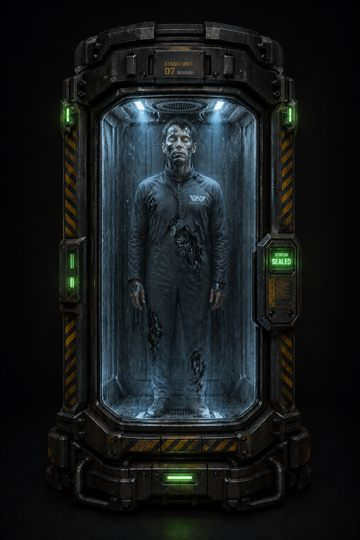
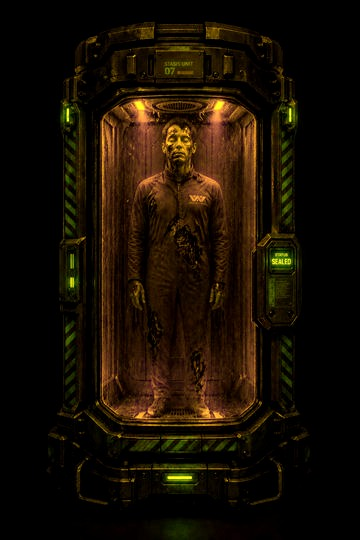
Perf: Android Bay — pre-bake CSS filters into JPEGs, zero runtime filter layers
- Generate pod-empty/occupied/sealing/damaged.jpg with CSS filters
  (saturate/brightness/hue-rotate/contrast) baked in via ColorMatrix
- Remove all CSS filter: properties from .ab-photo rules
  (eliminates 10 GPU filter texture layers at runtime)
- New pod-sealing.jpg variant (sealing state had different filter than occupied)
- Empty pod hover: filter → opacity:.75 (GPU-safe, no compositor layer)
- Add pod-sealing.jpg to preload list
- Ignore *.orig.jpg backup files in .gitignore

diff --git a/assets/css/android-bay.css b/assets/css/android-bay.css
@@ -183,10 +183,10 @@
   position: absolute; inset: 0;
   background-size: cover; background-position: center; background-repeat: no-repeat;
 }
-#androidBayOverlay .ab-pod[data-state="empty"]    .ab-photo { background-image: url("../images/pod-empty.jpg");    filter: saturate(.45) brightness(.7) contrast(1.05); }
-#androidBayOverlay .ab-pod[data-state="occupied"] .ab-photo { background-image: url("../images/pod-occupied.jpg"); filter: saturate(1.05) brightness(.95) hue-rotate(-10deg); }
-#androidBayOverlay .ab-pod[data-state="sealing"]  .ab-photo { background-image: url("../images/pod-occupied.jpg"); filter: saturate(1.2) brightness(1.05) hue-rotate(-15deg); }
-#androidBayOverlay .ab-pod[data-state="occupied"][data-cond="damaged"] .ab-photo { background-image: url("../images/pod-damaged.jpg"); filter: saturate(1.1) brightness(.85) hue-rotate(-50deg) contrast(1.15); }
+#androidBayOverlay .ab-pod[data-state="empty"]    .ab-photo { background-image: url("../images/pod-empty.jpg"); }
+#androidBayOverlay .ab-pod[data-state="occupied"] .ab-photo { background-image: url("../images/pod-occupied.jpg"); }
+#androidBayOverlay .ab-pod[data-state="sealing"]  .ab-photo { background-image: url("../images/pod-sealing.jpg"); }
+#androidBayOverlay .ab-pod[data-state="occupied"][data-cond="damaged"] .ab-photo { background-image: url("../images/pod-damaged.jpg"); }
 
 /* Tint overlay */
 #androidBayOverlay .ab-pod .ab-tint { position: absolute; inset: 0; pointer-events: none; }
@@ -244,7 +244,7 @@
 
 /* Empty hover */
 #androidBayOverlay .ab-pod[data-state="empty"] { cursor: pointer; }
-#androidBayOverlay .ab-pod[data-state="empty"]:hover .ab-photo { filter: saturate(.7) brightness(.85) hue-rotate(-15deg); }
+#androidBayOverlay .ab-pod[data-state="empty"]:hover .ab-photo { opacity: .75; }
 #androidBayOverlay .ab-pod[data-state="empty"]:hover::after { box-shadow: inset 0 0 0 1px rgba(245,166,35,.7), inset 0 0 28px rgba(245,166,35,.35); }
 #androidBayOverlay .ab-hover-prompt {
   position: absolute; left: 0; right: 0; top: 50%; text-align: center;

diff --git a/index.html b/index.html
@@ -18,6 +18,7 @@
 <link rel="stylesheet" href="assets/css/android-bay.css">
 <link rel="preload" href="assets/images/pod-empty.jpg"    as="image">
 <link rel="preload" href="assets/images/pod-occupied.jpg" as="image">
+<link rel="preload" href="assets/images/pod-sealing.jpg"  as="image">
 <link rel="preload" href="assets/images/pod-damaged.jpg"  as="image">
 </head>
 <body>
